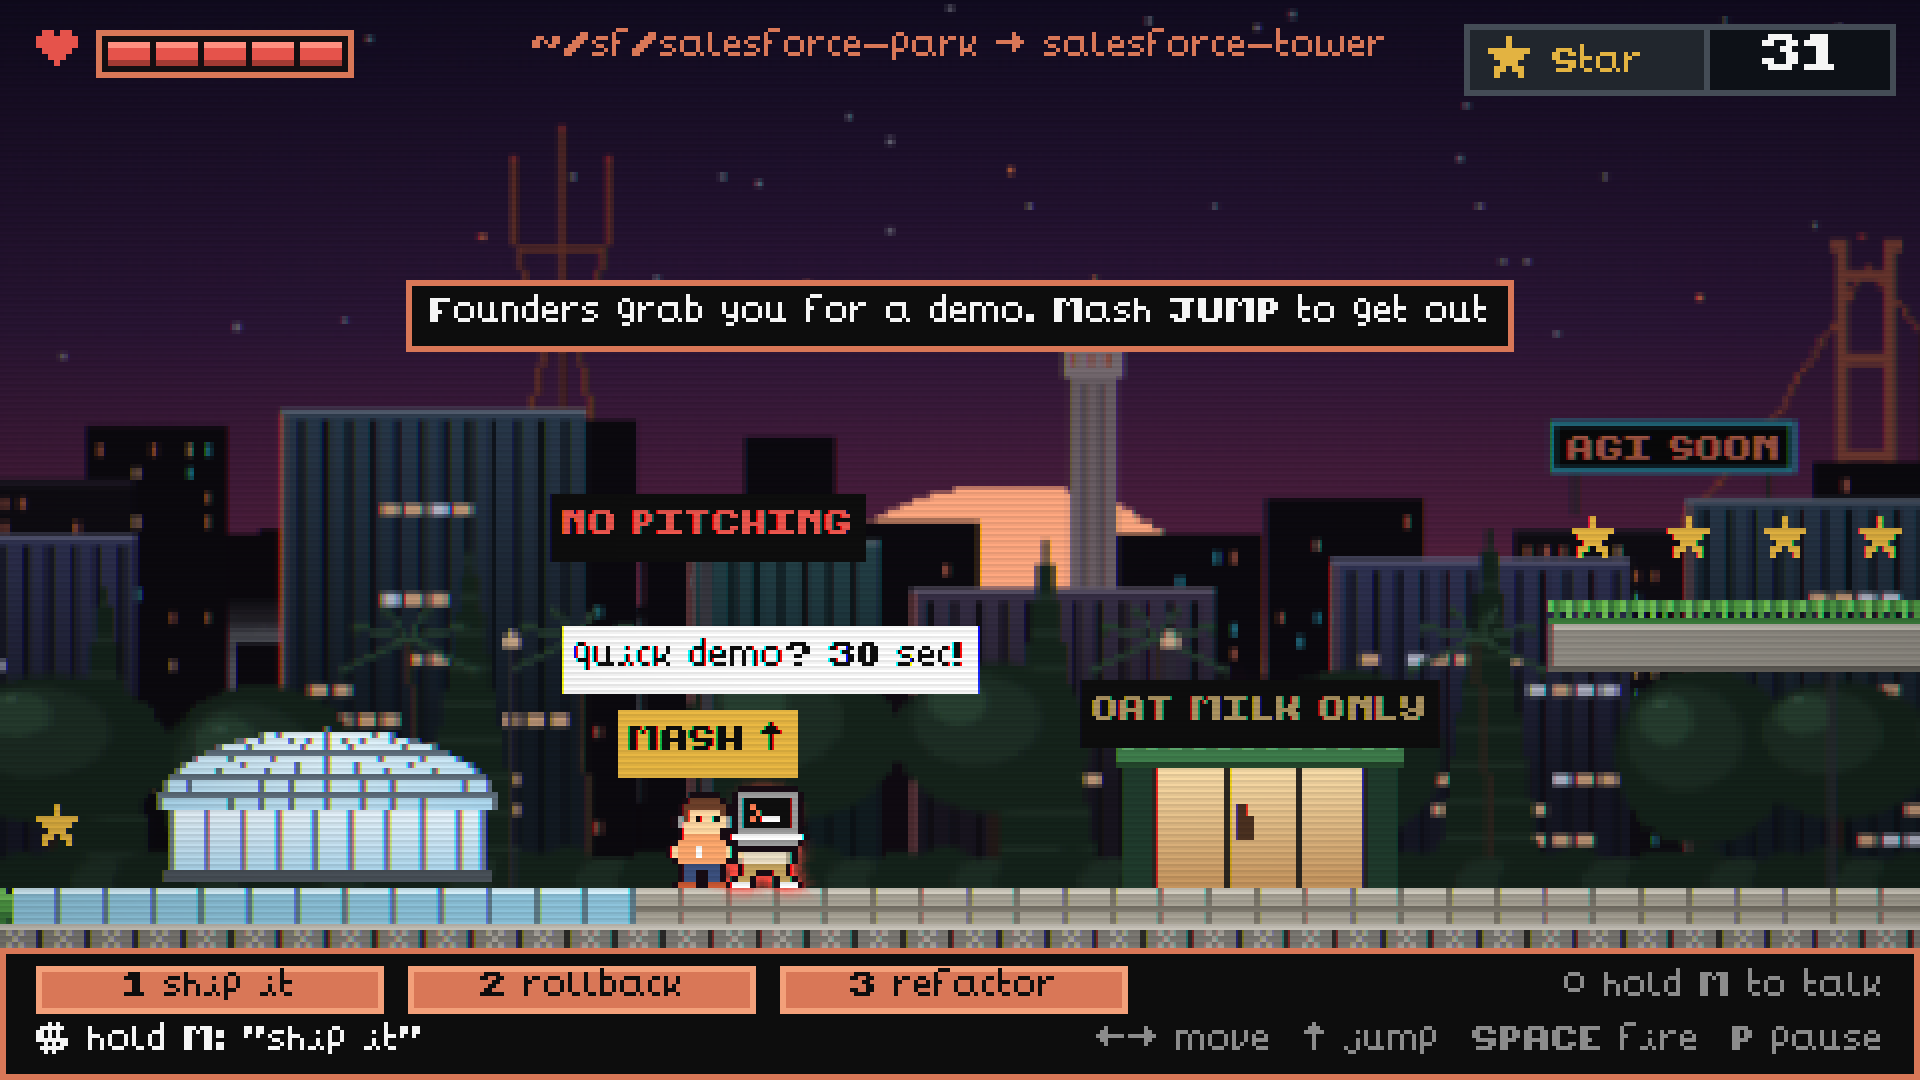
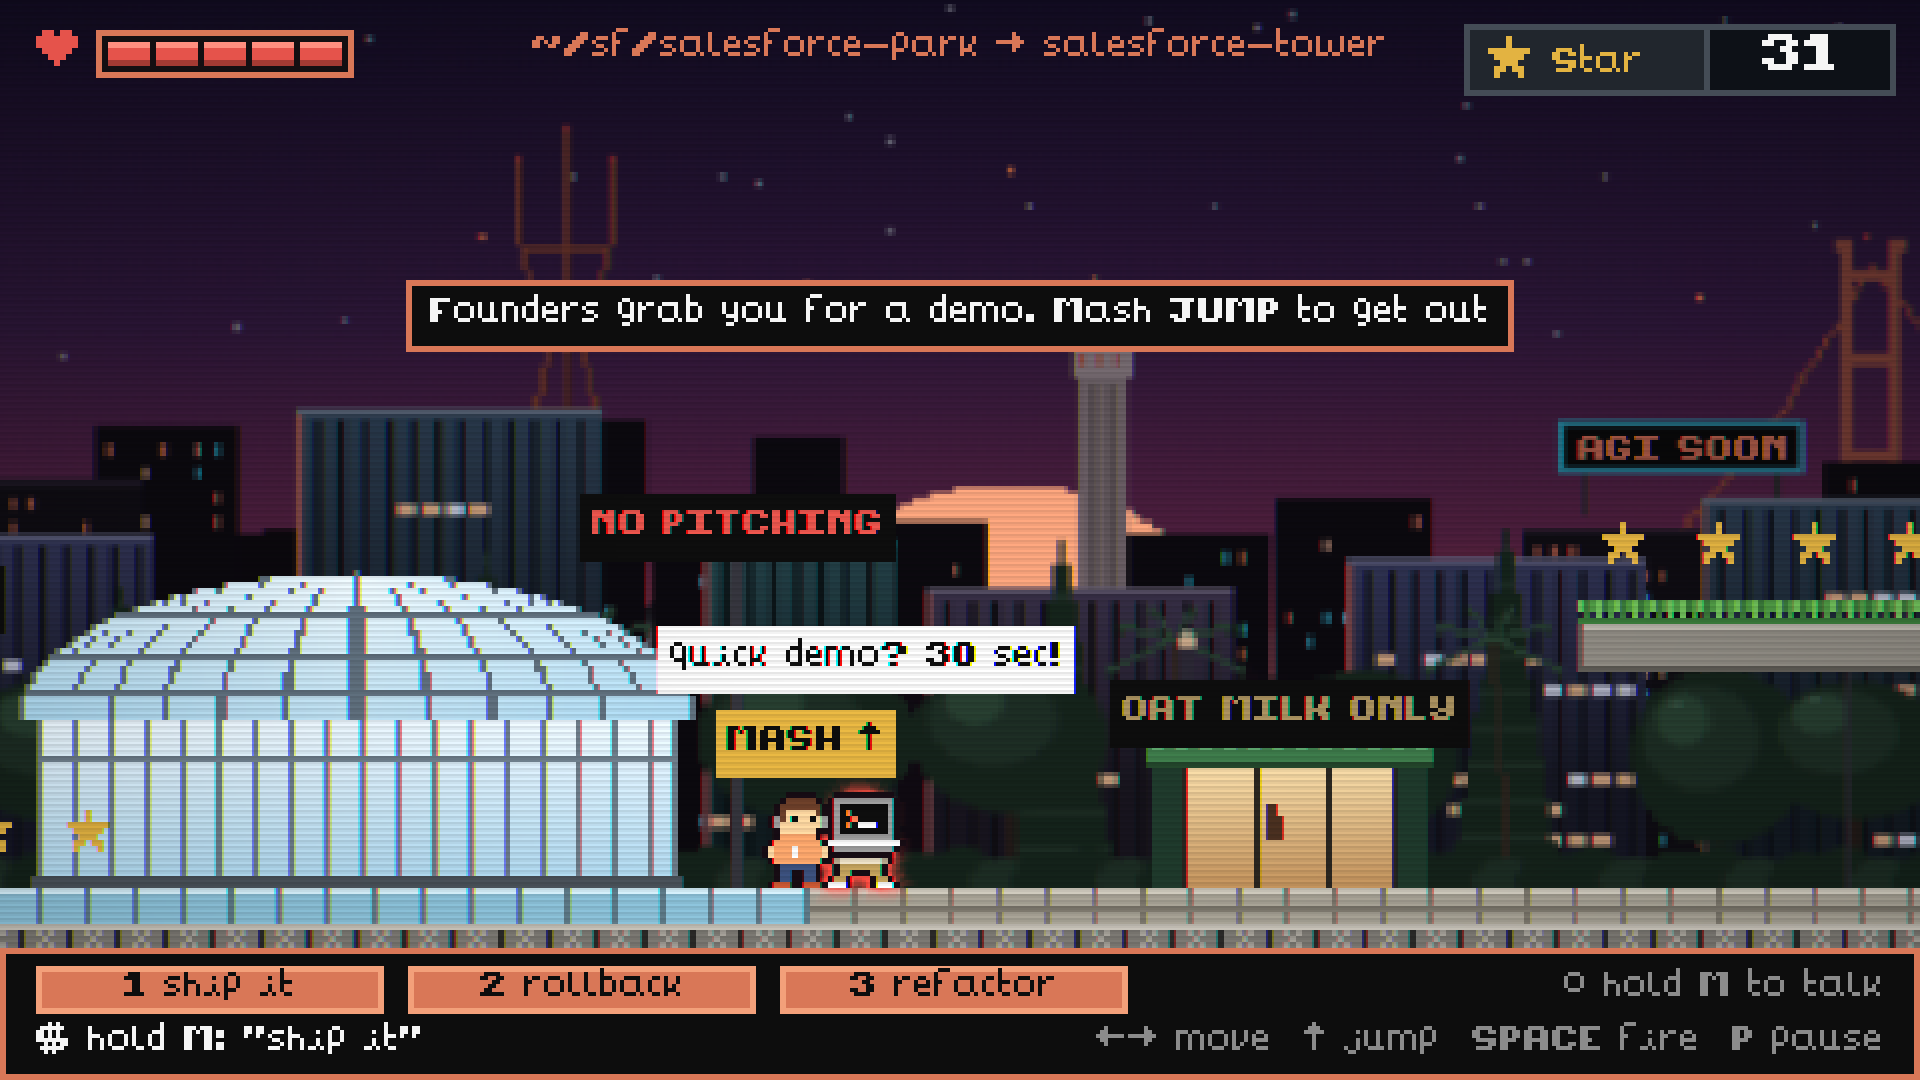
README: the dissolve, the ride and the drop-off, with two new shots, and the park's shot retaken for the Oculus
- The landing's walkthrough gains the dissolve, and the ride gets its
  own paragraph and two shots: the back seat mid-ride, and the drop-off.
- 08a retaken at its old framing, so the Oculus behind the founder's
  demo grab is the new size.
- The features, the URL flags (?landing, ?ride), the architecture
  diagram (Ride, Arrival, rideArt.js) and a tests row catch up.
- feed/PLAN-salesforce-levels.md: the ride's design, Travis's picks,
  and his playtest changes to the drop-off.

Claude-Session: https://claude.ai/code/session_019Djx38RVc2FWwAyYzsdDai

diff --git a/README.md b/README.md
@@ -157,10 +157,22 @@ not found`, and a retry restarts the fall.
 **The landing.** The canopy carries you east over SoMa's rooftops, the Salesforce Tower lit up
 behind you. Steer through three arcs of stars, each laid on a line the canopy can actually fly,
 and come down on a Waymo that has lined up under you: *Rider detected on roof. Adjusting route.*
-It drives you to Anthropic HQ, and you walk in through its sliding doors. Miss the roof and it
-pulls up beside you on the street.
+Its lidar sweeps you, you sink through the roof as pixels, and there you are in the back seat as
+it drives off. Miss the roof and it pulls up beside you on the street, for the same trick.
 
 ![On the Waymo's roof over SoMa: "Rider detected on roof. Adjusting route."](docs/screenshots/08j-chute-waymo.png)
+
+**The ride.** From the back seat, both front seats are empty and the wheel turns itself through
+the bends while SoMa streams past the windshield. The screen between the seats wants you to press
+*START RIDE*, then time-lapses the ETA from 47 minutes to 1, playing the elevator's bossa nova
+(its skip button changes the title, not the song), while Slack asks whether the one line can do
+dark mode, whether the office AI forgetting things is your change, and then moves the demo up.
+The Waymo drops you at Anthropic HQ, *Rate your ride: ★★★★★?*, and you walk in through its
+sliding doors.
+
+![From the back seat: the wheel turning itself, Slack, and the ETA on the rider screen](docs/screenshots/08k-waymo-ride.png)
+
+![Dropped off at Anthropic HQ: "You have arrived at Anthropic HQ."](docs/screenshots/08l-hq-dropoff.png)
 
 **9. The Context Rot Hydra.** Inside, the office goes quiet, the terminal types
 `make one small change`, the heads answer, and the boss card lands. The body is a heap of H100s
@@ -222,7 +234,7 @@ A dated design review with before and after screenshots is in
 - A side-scrolling run from Daly City to SoMa, with the HUD path following the neighborhood signs, over a parallax San Francisco skyline (Sutro Tower, the Golden Gate Bridge, Coit Tower, the Transamerica Pyramid, the Salesforce Tower, the Painted Ladies, moving cable cars), ending at the Salesforce Transit Center
 - Salesforce Park on the Transit Center's roof, laid out like the real one, with the bus fountain's geysers, a gondola intro, and a demo-day arena
 - Three floors of the Salesforce Tower, joined by elevator rides, ending when the whole sales team drops in on the Ohana Floor and their contracts crack the window you leap through
-- A free fall down the tower's face against an altimeter, where you type three lines into Claude Code for a parachute (it gets it wrong twice), then a canopy ride over SoMa through arcs of stars onto a Waymo's roof
+- A free fall down the tower's face against an altimeter, where you type three lines into Claude Code for a parachute (it gets it wrong twice), then a canopy ride over SoMa through arcs of stars onto a Waymo's roof, and the ride to HQ from its back seat: empty front seats, a wheel that turns itself, a rider screen to press, and Slack while a 47-minute ETA time-lapses away
 - Enemies by district: the Bad Prompt Blob (splits in two), the Keyboard Goblin (charges and spits keycaps), and the H100 GPU (six hit points, vents arcing heat) in the city; founders, vested bros, and Zone 2 joggers in the park; CRM agents (contracts that lock your fire) and chatbots (popups you shoot closed) in the tower
 - A rideable Powell St cable car, star arcs over pits, and pits that glow `404`
 - The Context Rot Hydra boss: a heap of H100s whose neck pipes stream tokens into three heads with distinct roles (image flood, gaslighting orb that reverses your controls, shown as a chip over the player, and a spawner whose notification skulls hunt you and respawn until that head dies); growth every 8 seconds, each turn dropping another GPU on the heap; once the context window is full, matrix rain buries the arena and context rot deals damage until you refactor, while threats and warnings stay drawn above the rain; lying speech bubbles, an enraged last head, and Furbies in the office worth bonus stars
@@ -257,9 +269,9 @@ Touch controls appear on devices whose main pointer is a finger. A thumb on the 
 On Android the tap that starts a run goes fullscreen; iPhone Safari cannot make a page
 fullscreen, but *Add to Home Screen* runs the game fullscreen from its web manifest.
 
-Seven URL flags help when testing: `?park`, `?tower=59` (or `60`, `61`), `?chute`, and `?boss`
-start at Salesforce Park, a tower floor, the fall, or the boss after you press Enter on the title
-screen, `?debug` draws the physics bodies, `?fx=off` turns off the CRT effect, and `?touch` shows
+Nine URL flags help when testing: `?park`, `?tower=59` (or `60`, `61`), `?chute`, `?landing`,
+`?ride`, and `?boss` start at Salesforce Park, a tower floor, the fall, the canopy, the ride to
+HQ, or the boss after you press Enter on the title screen, `?debug` draws the physics bodies, `?fx=off` turns off the CRT effect, and `?touch` shows
 the touch controls on a desktop (they work with a mouse).
 
 ---
@@ -288,13 +300,15 @@ the touch controls on a desktop (they work with a mouse).
 │  index.html → src/main.js   Phaser.Game 960x540, WebGL, CRT pipeline    │
 │                                                                         │
 │  Scenes: Boot → Title → Level1 → Park → Tower ⇄ Elevator → Chute        │
-│          → Landing → BossHQ → End                                       │
+│          → Landing → Ride → Arrival → BossHQ → End                      │
 │  Songs loads the later levels' music in parallel, behind the title      │
-│  Overlays: Cine (intros, the elevator), Terminal (the fall's typing)    │
+│  Overlays: Cine (intros, the elevator, the ride's Slack, the drop-off), │
+│            Terminal (the fall's typing)                                 │
 │  HUD runs in parallel with every play scene; the Hydra is in BossHQ     │
 │                                                                         │
 │  Art: drawn to canvas textures at boot (sprites.js, backdrops.js,       │
-│       hqArt.js, parkArt.js, towerArt.js, chuteArt.js) + public/assets   │
+│       hqArt.js, parkArt.js, towerArt.js, chuteArt.js, rideArt.js)       │
+│       + public/assets                                                   │
 │  Storage: one localStorage key (a demo setting)                         │
 │                                                                         │
 │  src/touch.js ── DOM buttons over the canvas ──→ Player.tick, HUD taps  │
@@ -381,6 +395,7 @@ against the running game, recorded with screenshots in
 | Context meter is truthful | The HUD countdown matches the real growth timer, including after `refactor` |
 | Tower flow (2026-09-27) | The park's exit starts floor 59; each elevator ride starts the next floor at full health; a death on floor 60 retries floor 60; the leap from floor 61 starts the fall; no console errors |
 | The fall and the landing (2026-09-27) | From floor 61: the leap starts the fall with the HUD off; three typed lines, one sent while Claude was still answering (it waited its turn), deploy the chute at 778 ft; the landing ends the fall's scenes and keeps its music; the Waymo reaches HQ and the boss starts with the HUD back and the level music stopped. Typed `m`, `1`, `2`, `3` leave voice and powers untouched. At 0 ft, *retry the fall* restores the stars you arrived with. Touch (iPhone landscape emulation): taps type and send the lines and the D-pad steers the canopy. Missing the Waymo's roof lands you on the street, and it picks you up. No console errors |
+| The Waymo ride (2026-09-27) | Landing on the roof, or on the street where the car picks you up, dissolves you into the back seat, and the car is out of frame about 2 s later. The ride starts itself after 3.5 s (or on ENTER, or a tap on the screen), counts the ETA from 47 to 1 with three Slack messages, and cuts to the drop-off 12.3 s in; ENTER mid-ride renames the track and keeps the same song. The drop-off shows its letterbox and stays quiet, the Waymo waits at the kerb while you walk in, and the walk-in reaches the boss with the HUD back and only the boss song playing. ESC or a tap off the screen skips the ride to the boss, ENTER skips the drop-off. No console errors |
 | Line matching (2026-09-27) | `Build Me A Parachute`, `build me a parchute`, `No. A real one!` and `shipit` pass; `build me`, `a real one` and `ship` don't; the same rule finds a line inside a spoken transcript |
 | Star arcs are flyable (2026-09-27) | A simulation of the canopy's drift collects 4 stars with no steering, 8 with a mid-course steer, and all 12 on a chasing route; the game matched the 8-star route exactly |
 | Ohana finale (2026-09-27) | A wave agent left alive at the far wall no longer holds the exit: the last 8 tiles drop 18 closers right behind you (13 within 120 px at 1.5 s), the stray joins them, the third contract into the window breaks it at about 2 s, and the crowd shoves an idle player through; clearing the lounge mid-floor drops them behind you there |

diff --git a/feed/PLAN-salesforce-levels.md b/feed/PLAN-salesforce-levels.md
@@ -224,6 +224,32 @@ byte) with a gain that puts each at -21.1 LUFS, the city song's loudness, so eve
 0.28 (0.32 for the ride, as before). Only `music_level` loads before the title; the rest load
 behind it (`src/scenes/Songs.js`), and `loopSong` starts a song that arrives after its level did.
 
+## The ride to HQ, and the Oculus at scale (2026-09-27, Travis; on branch `claude/waymo-ride`)
+
+Travis: landing on the Waymo should dissolve you into it, then a cutscene of arriving at
+Anthropic, so it feels like time has passed. He picked the ambitious version: the back seat of a
+Waymo for 10-15 s, the elevator music again, a few Slack messages, and the rider screen from his
+photos to interact with. No line explaining the dissolve ("video game logic").
+
+- **Landing:** "Rider detected on roof. Adjusting route.", the lidar sweeps you, you sink through
+  the roof as pixels and appear in the rear window (`waymo_rider`), and the car drives out of a
+  still frame (about 2 s) into the ride. The street pickup ends the same way. The HQ facade and
+  the walk-in moved out of the Landing.
+- **Ride** (`src/scenes/Ride.js`, art in `src/rideArt.js`): back-seat POV from the photos (panoramic
+  roof, overhead sensors, the mirror with your eyes in it, the dash map, silver-edged console, mesh
+  pockets, the "Hello!" card). Empty seats, the wheel turning itself on the bends, a pseudo-3D
+  night street. The rider screen: START RIDE (ENTER, a tap, or it starts itself after 3.5 s), then
+  the car's view of the road, an ETA time-lapsed from 47 to 1 over 11 s, and a skip button that
+  renames the same bossa nova. Slack: dark mode, the office AI forgetting ("that's not your
+  change right?"), then the demo moved up (at ETA 14, "you have 15 min"). ESC or a tap off the
+  screen skips to the boss.
+- **Arrival** (`src/scenes/Arrival.js`): letterboxed like the intro it answers. The door opens
+  ("You have arrived at Anthropic HQ."), you hop out, "Rate your ride: ★★★★★?", and the walk-in.
+  Travis, after playing it: the car stays parked while you walk in (driving off, it passed behind
+  the sliding doors, which the walk-in draws over everything), and the music doesn't come back
+  after you get out; the ride's song ends with the ride.
+- **Oculus:** twice the size (116x53, three times your height), per the photo; its own commit (`7dc665c`).
+
 ## Verification (every phase)
 
 - `npm run build`.
